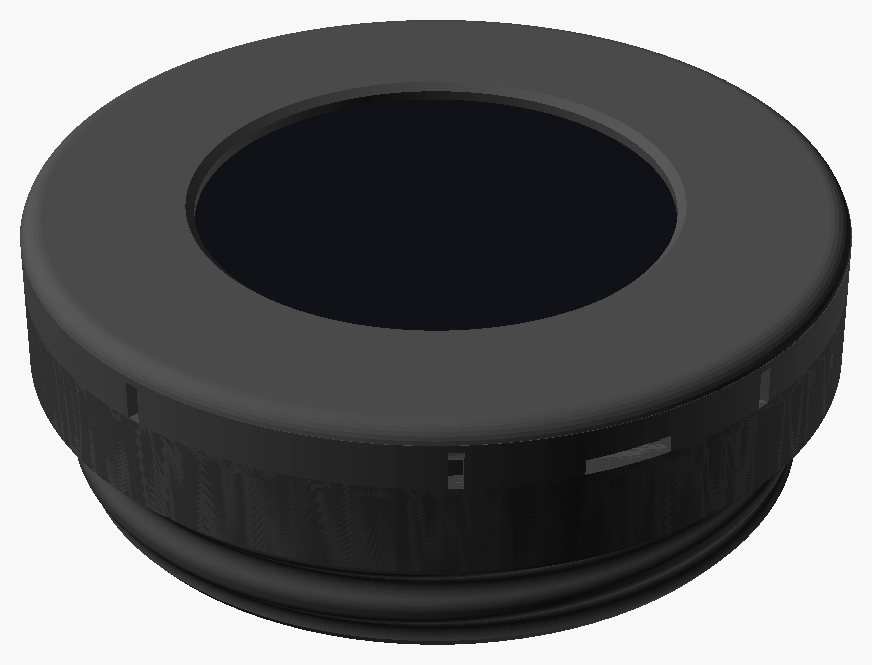
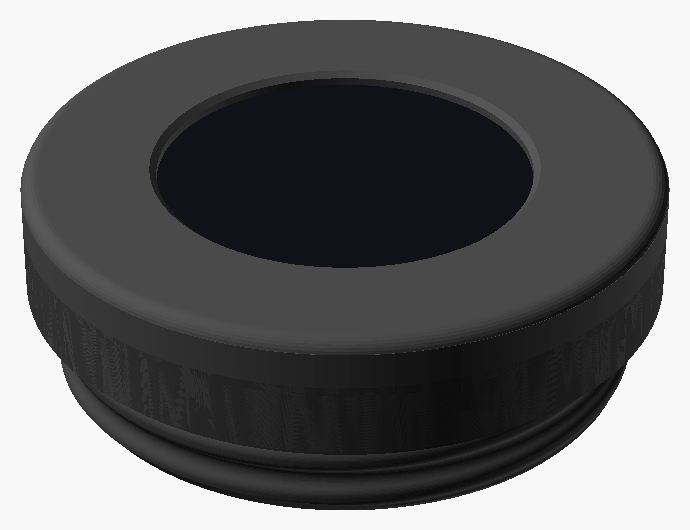
Twist-lock the 1.28" housing's bezel instead of snapping it on
The snap-on bezel's short, thick skirt had to stretch too far to go over
the body, and cracked. Three lugs inside the skirt now drop into slots in
the body, and a turn clockwise slides them along grooves that pull the
bezel down tight, until a nub on each clicks past a small ridge. Nothing
has to stretch, so it can be printed in PLA or PETG.

The docs now say to print the body back down: its front is hidden under
the bezel, and on its side the USB-C pocket comes out rough.

diff --git a/hardware/boards/waveshare_touch_lcd_1_28/README.md b/hardware/boards/waveshare_touch_lcd_1_28/README.md
@@ -14,7 +14,7 @@ It's two printed parts and no screws:
 - **The board** drops into the body from the front and rests on three small pads behind the edge of its PCB.
 - **The battery** sits behind the board, in a closed compartment inside the thread, in a shallow cradle in the floor so it can't slide around.  There's 1 mm between the top of the battery and the tallest parts on the back of the board, for a piece of 1 mm foam tape on top of the battery.  The board presses it down, so the battery stays put and nothing on the board can rub against it.
 - **A slide switch** in the side wall turns the battery on and off.  It sits in a pocket in the wall, with its lever out through a slot, so there's nothing to drill.  A catch holds it in: the roof of the pocket is a little tongue with a hook under its end, which the switch pushes up as it goes in, and which drops down behind it.
-- **The bezel** snaps over the front of the body and holds the board in by the edge of its glass.  To take it off, pry it up with a fingernail at the notch at the bottom.
+- **The bezel** goes over the front of the body and holds the board in by the edge of its glass.  It twist-locks on: line up the small arrow on its edge with the one on the body, push it down so the three lugs inside it drop into their slots, and turn it clockwise about 25 degrees until it clicks.  The grooves pull it down tight as it turns.  To take it off, turn it back and lift it off.  Nothing has to stretch, so it doesn't crack.
 - **The USB-C port** is reachable through a pocket in the right side (seen from the front), for charging and flashing.  The board is turned a quarter turn so the port isn't facing the mask's filter mount, below the voice port.  Set the display's Rotation to 90 degrees to match.
 
 The housing stands about 12 mm out of the mask: 11.6 mm with the RP2040 board, 12.2 mm with the RP2350 board.
@@ -41,12 +41,12 @@ The numbers count up clockwise from the arrow, seen from the front.  If you read
 
 Set `board` in `board.scad` to `"rp2040"` or `"rp2350"` first, then run `./render.sh` in this folder to render the housing's parts to the `stl/` folder.  It needs [OpenSCAD](https://openscad.org/).  `./render.sh tests` renders `phase_test` and `fit_test`, and `./render.sh body bezel` just those parts.  A single part can also be rendered by hand with, for example, `openscad -D 'part="body"' -o body.stl msa_housing.scad`.  The parts are all turned the right way up to print.
 
-There are no screws: the bezel snaps on and the switch clicks into place.
+There are no screws: the bezel twist-locks on and the switch clicks into place.
 
-**Materials:** print the `gasket` in TPU (or cut it from rubber or foam).  PETG is best for the `body` and the `bezel`, as the bezel's skirt and the switch's catch flex; PLA+ works, but they're more likely to break.  The test prints are fine in PLA.
+**Materials:** print the `gasket` in TPU (or cut it from rubber or foam).  PETG is best for the `body`, as the switch's catch flexes; PLA+ works, but the catch is more likely to break.  The `bezel` is fine in either.  The test prints are fine in PLA.
 
-- **`body`** - Printed back down.  The pocket for the USB-C plug needs a little support.
-- **`bezel`** - Printed front down.  PETG is a good choice, as its skirt flexes to snap on.
+- **`body`** - Printed back down.  Its front is hidden under the bezel, so printing it on its side gains nothing, and makes the USB-C pocket rough where the supports were.  The top of the pocket bridges, or use a little support there.
+- **`bezel`** - Printed front down, with no supports.
 - **`gasket`** - Optional.  A thin ring between the body and the voice port, to seal it.  Print it in TPU, or cut it from 1 mm rubber or craft foam.
 - **`phase_test`** - The thread with a scale on its front, for `thread_phase` (see above).
 - **`fit_test`** - The front of the body without the thread, to check the board, the switch and the bezel fit before printing the whole body.
@@ -55,10 +55,10 @@ There are no screws: the bezel snaps on and the switch clicks into place.
 
 These come from the 3D model, not from a print, so check them with `fit_test`:
 
-- The board's fit in its pocket (`clearance`) and on its pads.  If the board rattles once the bezel is on, the pads are too low.  If the bezel won't snap on, they're too high.
+- The board's fit in its pocket (`clearance`) and on its pads.  If the board rattles once the bezel is on, the pads are too low.  If the bezel won't turn to lock, they're too high.
 - With the RP2350 board, its thickness: from the front of the glass to the back of the PCB should be about 5.5 mm (`pcb_back_z` in `board.scad`).
 - The switch's fit in its pocket (`switch_body`), that the lever moves freely in its slot, and that the catch clicks behind it (`catch_hook`).  If the catch is too stiff or breaks, print the body in PETG, which bends more than PLA before it breaks.
-- How firmly the bezel snaps on (`snap_bead`).
+- How firmly the bezel locks.  `lock_play` sets how tight the grooves pull it down, and `lock_detent` how firmly it clicks.
 
 ## Parts to buy, wiring and putting it together
 

diff --git a/docs/hardware/waveshare_touch_lcd_1_28.md b/docs/hardware/waveshare_touch_lcd_1_28.md
@@ -6,7 +6,7 @@ The [Waveshare RP2040-Touch-LCD-1.28](https://www.waveshare.com/wiki/RP2040-Touc
 
 ![The 1.28" housing](../images/housing_1_28.png)
 
-The housing is two printed parts and no screws.  The body has the voice port thread on its back, and holds the board, the battery in a cradle inside the thread, and a slide switch in its side wall.  The bezel snaps over the front and holds the board in by its glass.  Nothing sticks out of the back, so it screws all the way in and sits flat.  It stands about 12 mm out of the mask.
+The housing is two printed parts and no screws.  The body has the voice port thread on its back, and holds the board, the battery in a cradle inside the thread, and a slide switch in its side wall.  The bezel twist-locks over the front and holds the board in by its glass.  Nothing sticks out of the back, so it screws all the way in and sits flat.  It stands about 12 mm out of the mask.
 
 **Status: new.**  The housing is designed but hasn't been printed yet.  It replaces the [RP2040-LCD-1.28-MSA](https://www.printables.com/model/538771-rp2040-lcd-128-msa) model by whyrlpool, which this project started out with, and whose voice port thread it uses.
 
@@ -24,7 +24,7 @@ The design is [`hardware/boards/waveshare_touch_lcd_1_28/msa_housing.scad`](../.
 
 1. Print `fit_test`, the front of the body without the thread, to check the board, the switch and the bezel fit.
 2. Print `phase_test`, the thread with a scale on its front, screw it all the way into the mask, hold the mask upright and read the number at the top.  Set `thread_phase` to it, so the housing ends up level.  It's already set from one mask, so this step is only needed if yours sits crooked.
-3. Print the `body` and the `bezel`.  PETG is a good choice for both, as the bezel's skirt and the switch's catch flex.
+3. Print the `body` back down and the `bezel` front down.  PETG is a good choice for the body, as the switch's catch flexes.
 4. Optionally, print the `gasket` in TPU, or cut it from 1 mm rubber or craft foam.
 
 ## Wiring
@@ -47,7 +47,7 @@ Check the polarity at the plug against the board before plugging it in.
 2. Push the switch into its pocket from inside the body, lever first, until it clicks past the catch and its lever is out through the slot.
 3. Stick the foam tape over the top of the battery, and lay it in its cradle with its leads at the left, in the notch.
 4. Plug the battery into the board, then drop the board in, with its USB-C port at the right-hand side of the pocket and the plug in the space beside the board.
-5. Snap the bezel on.  To take it off again, pry it up with a fingernail at the notch at the bottom.
+5. Line up the arrow on the bezel's edge with the one on the body, push the bezel down, and turn it clockwise about 25 degrees until it clicks.  To take it off again, turn it back and lift it off.
 
 ## Charging
 
